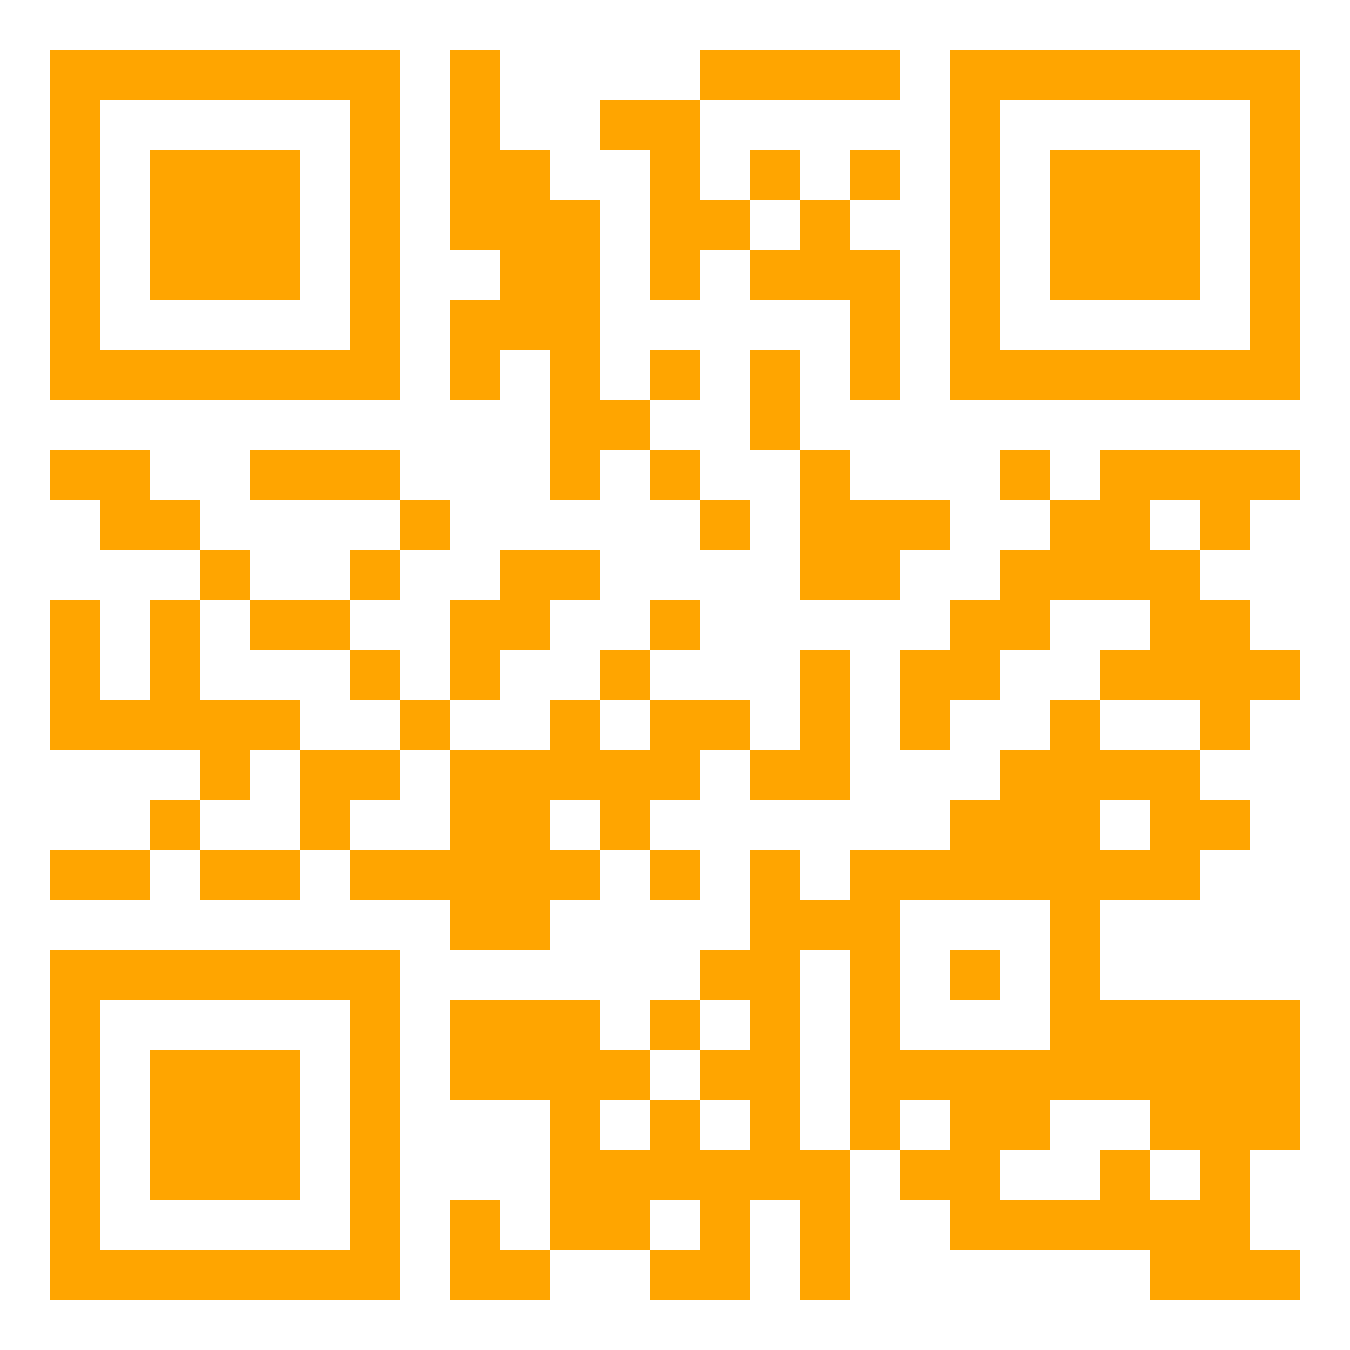
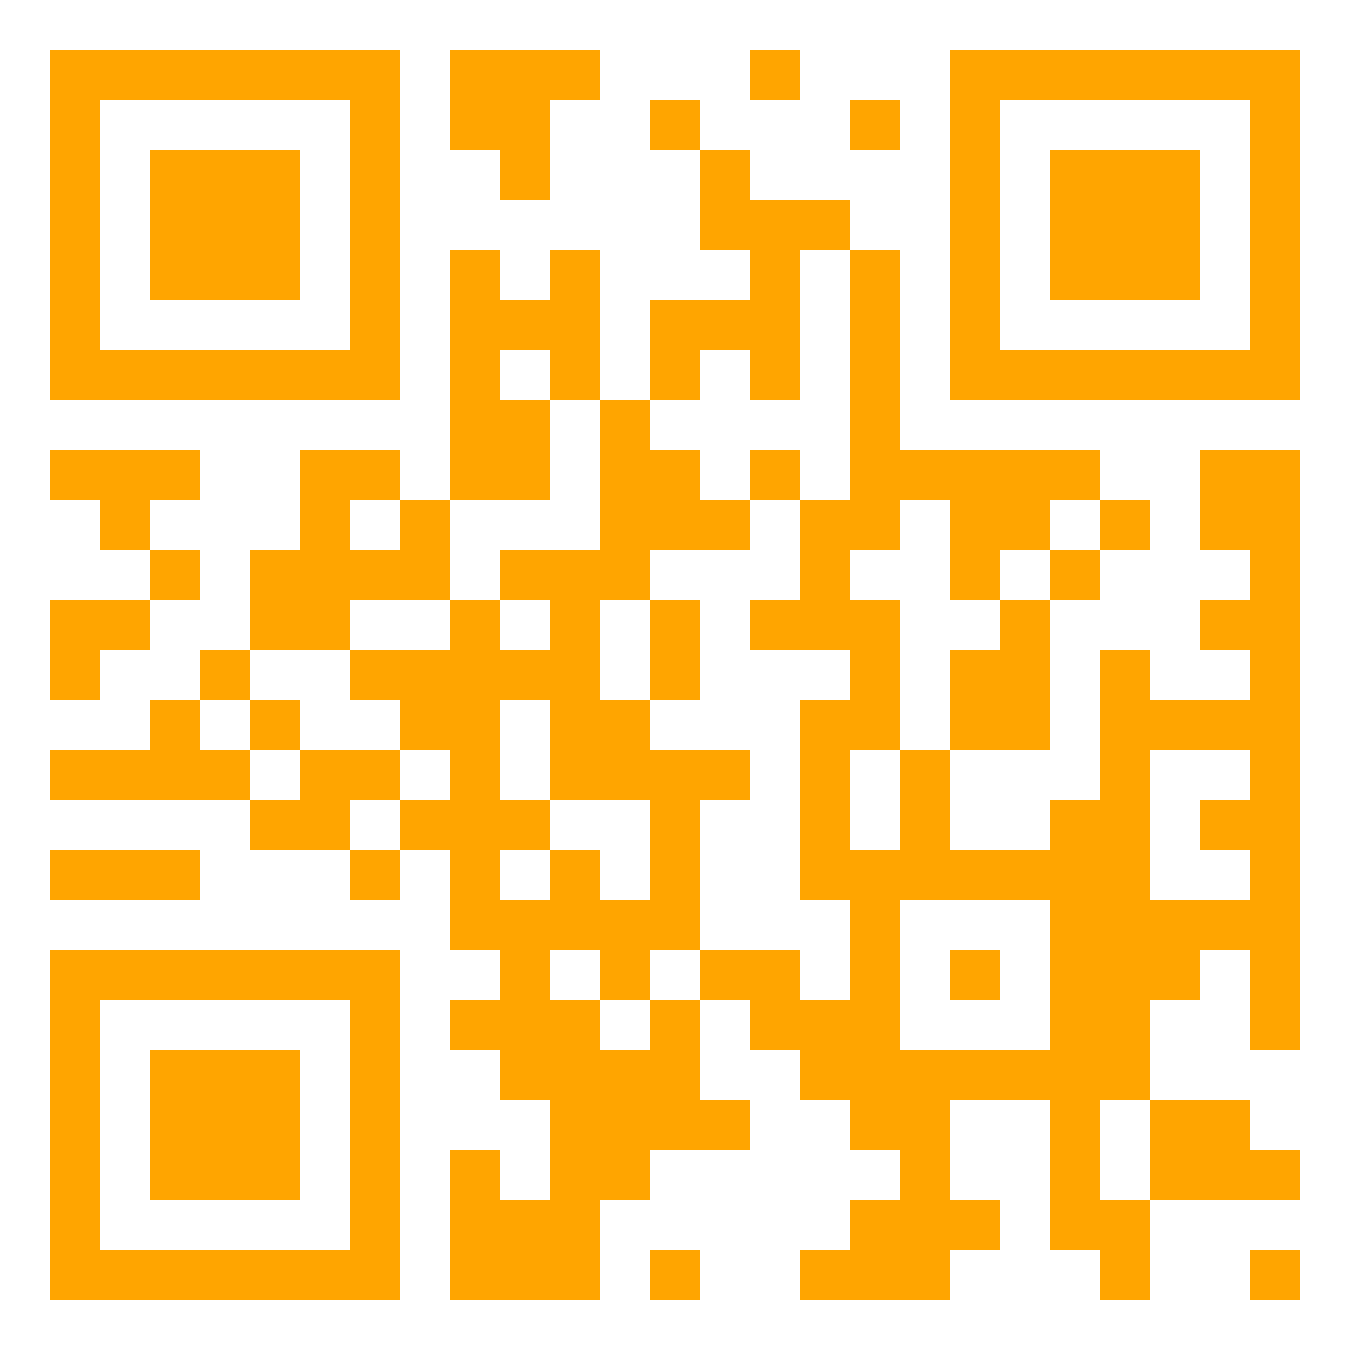
changed url

Changed region(s): [[0.0311, 0.0311, 0.9644, 0.9644], [0.5911, 0.0311, 0.6844, 0.1556], [0.28, 0.5911, 0.3422, 0.6844]]

diff --git a/generatorQr.py b/generatorQr.py
@@ -4,7 +4,7 @@ qr = qrcode.QRCode(version=1,
                    error_correction=qrcode.constants.ERROR_CORRECT_L,
                    box_size=50,
                    border=1)
-qr.add_data("https://www.jw.org/pt/")
+qr.add_data("www.linkedin.com/in/daniel-cgc")
 qr.make(fit=True)
 
 img = qr.make_image(fill_color="orange", back_color="white")
